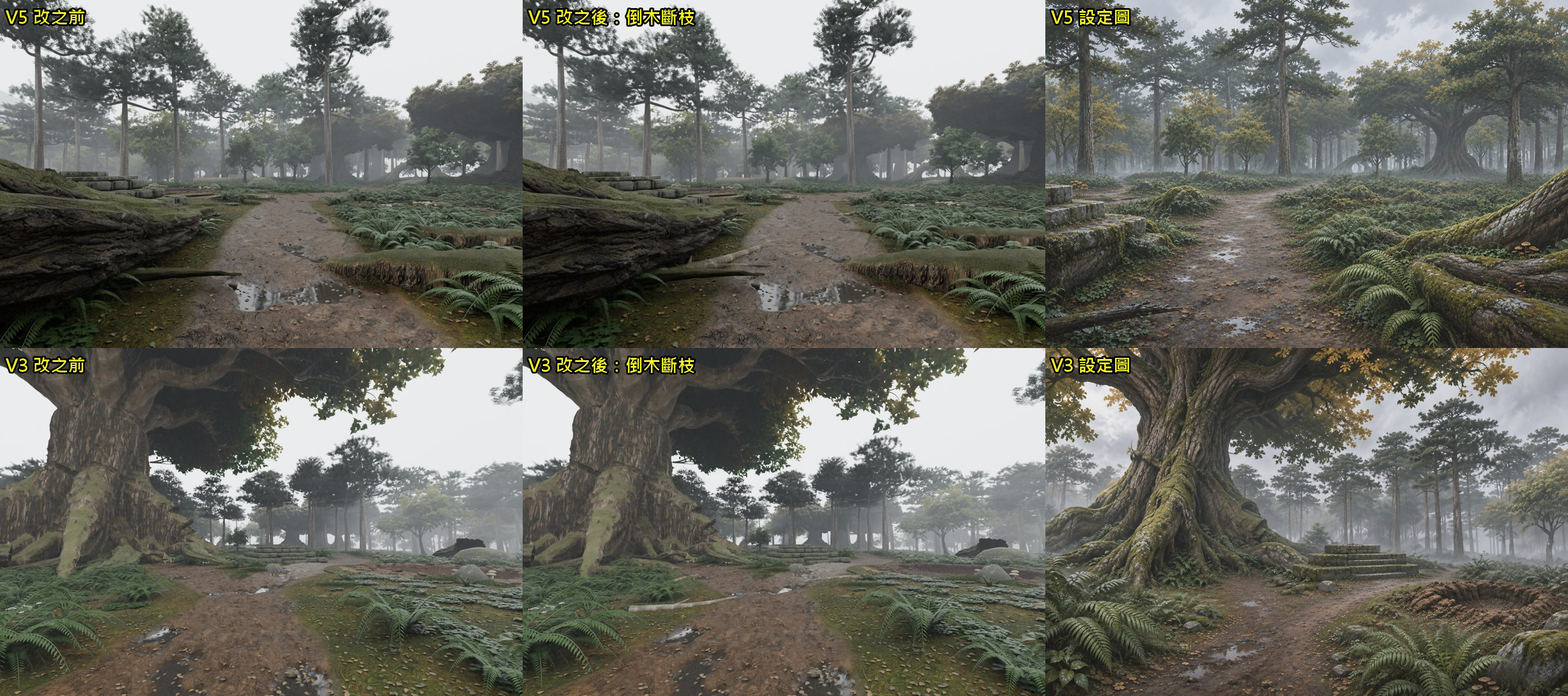
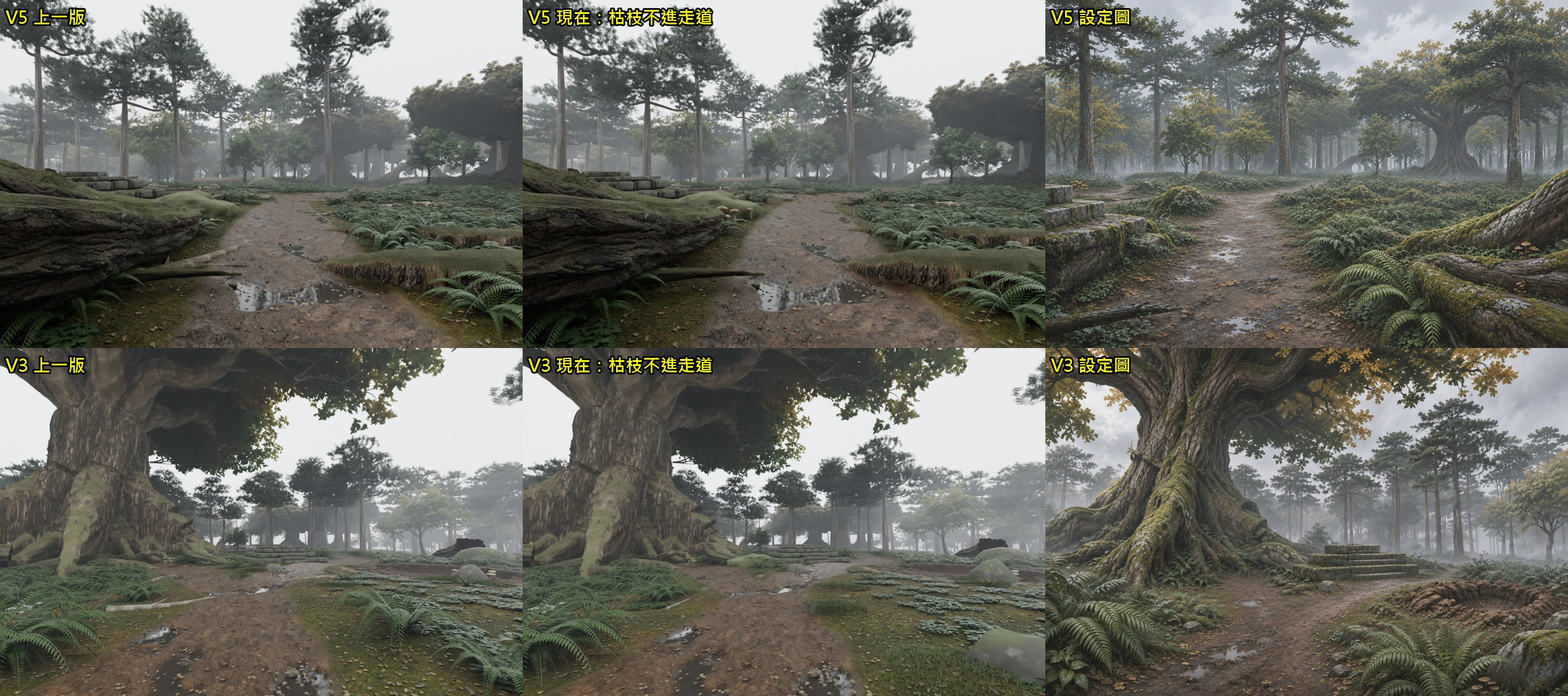
D2: dead branches never enter the walkway (skip any branch within 2 m of the path centre line)

diff --git a/art/source/core-d2-v1/d2_plan.py b/art/source/core-d2-v1/d2_plan.py
@@ -837,6 +837,9 @@ if REAL:   # V5 設定圖：支路兩旁各有幾條沿著路走的長根
             bd = Vector((math.cos(ba), math.sin(ba), 0))
             parts.append([(b0, r0 * .4), (b0 + bd * bl * .5, r0 * .3), (b0 + bd * bl, r0 * .12)])
         for _k, pts_ in enumerate(parts):
+            # 11/22 z1nnz「擋到路了」：枝條任何一點進到走道（離路中線 2 m 內）就不放
+            if any(path_d(p0[0] + q_.x, p0[1] + q_.y) < 2.0 for q_, r_ in pts_):
+                continue
             cu_ = bpy.data.curves.new('DeadBranch', 'CURVE'); cu_.dimensions = '3D'; cu_.bevel_depth = 1.0; cu_.bevel_resolution = 4
             cu_.use_fill_caps = True; cu_.resolution_u = 12
             sp_ = cu_.splines.new('NURBS'); sp_.points.add(len(pts_) - 1)
@@ -849,8 +852,8 @@ if REAL:   # V5 設定圖：支路兩旁各有幾條沿著路走的長根
             ob_ = bpy.data.objects.new('DeadBranch', cu_); sc.collection.objects.link(ob_)
 
     _c3 = Vector((4, -15)); _f3 = Vector((2, 33)).normalized(); _r3 = Vector((_f3.y, -_f3.x))
-    _p = _c5 + _f5 * 3.2 + _r5 * -3.4   # V5 左下那根灰白枯枝（從左邊往路中間斜躺）
-    _dv = _f5 * .8 + _r5 * .6
+    _p = _c5 + _f5 * 2.6 + _r5 * -4.4   # V5 左下那根灰白枯枝：躺在路左邊，順著路的方向，不伸進走道
+    _dv = _f5 * .97 + _r5 * -.25
     deadbranch((_p.x, _p.y), math.atan2(_dv.y, _dv.x), 4.6, .17, 1)
     for _fd, _rd, _ang, _L, _r0, _sd in ((7, -4.5, .4, 3.2, .12, 2), (9.5, 3.5, 2.6, 2.6, .1, 3), (12, -6.5, 1.2, 3.4, .13, 4), (5.5, 5.5, -.3, 2.2, .08, 5)):   # V3 路邊零星斷枝
         _p = _c3 + _f3 * _fd + _r3 * _rd
